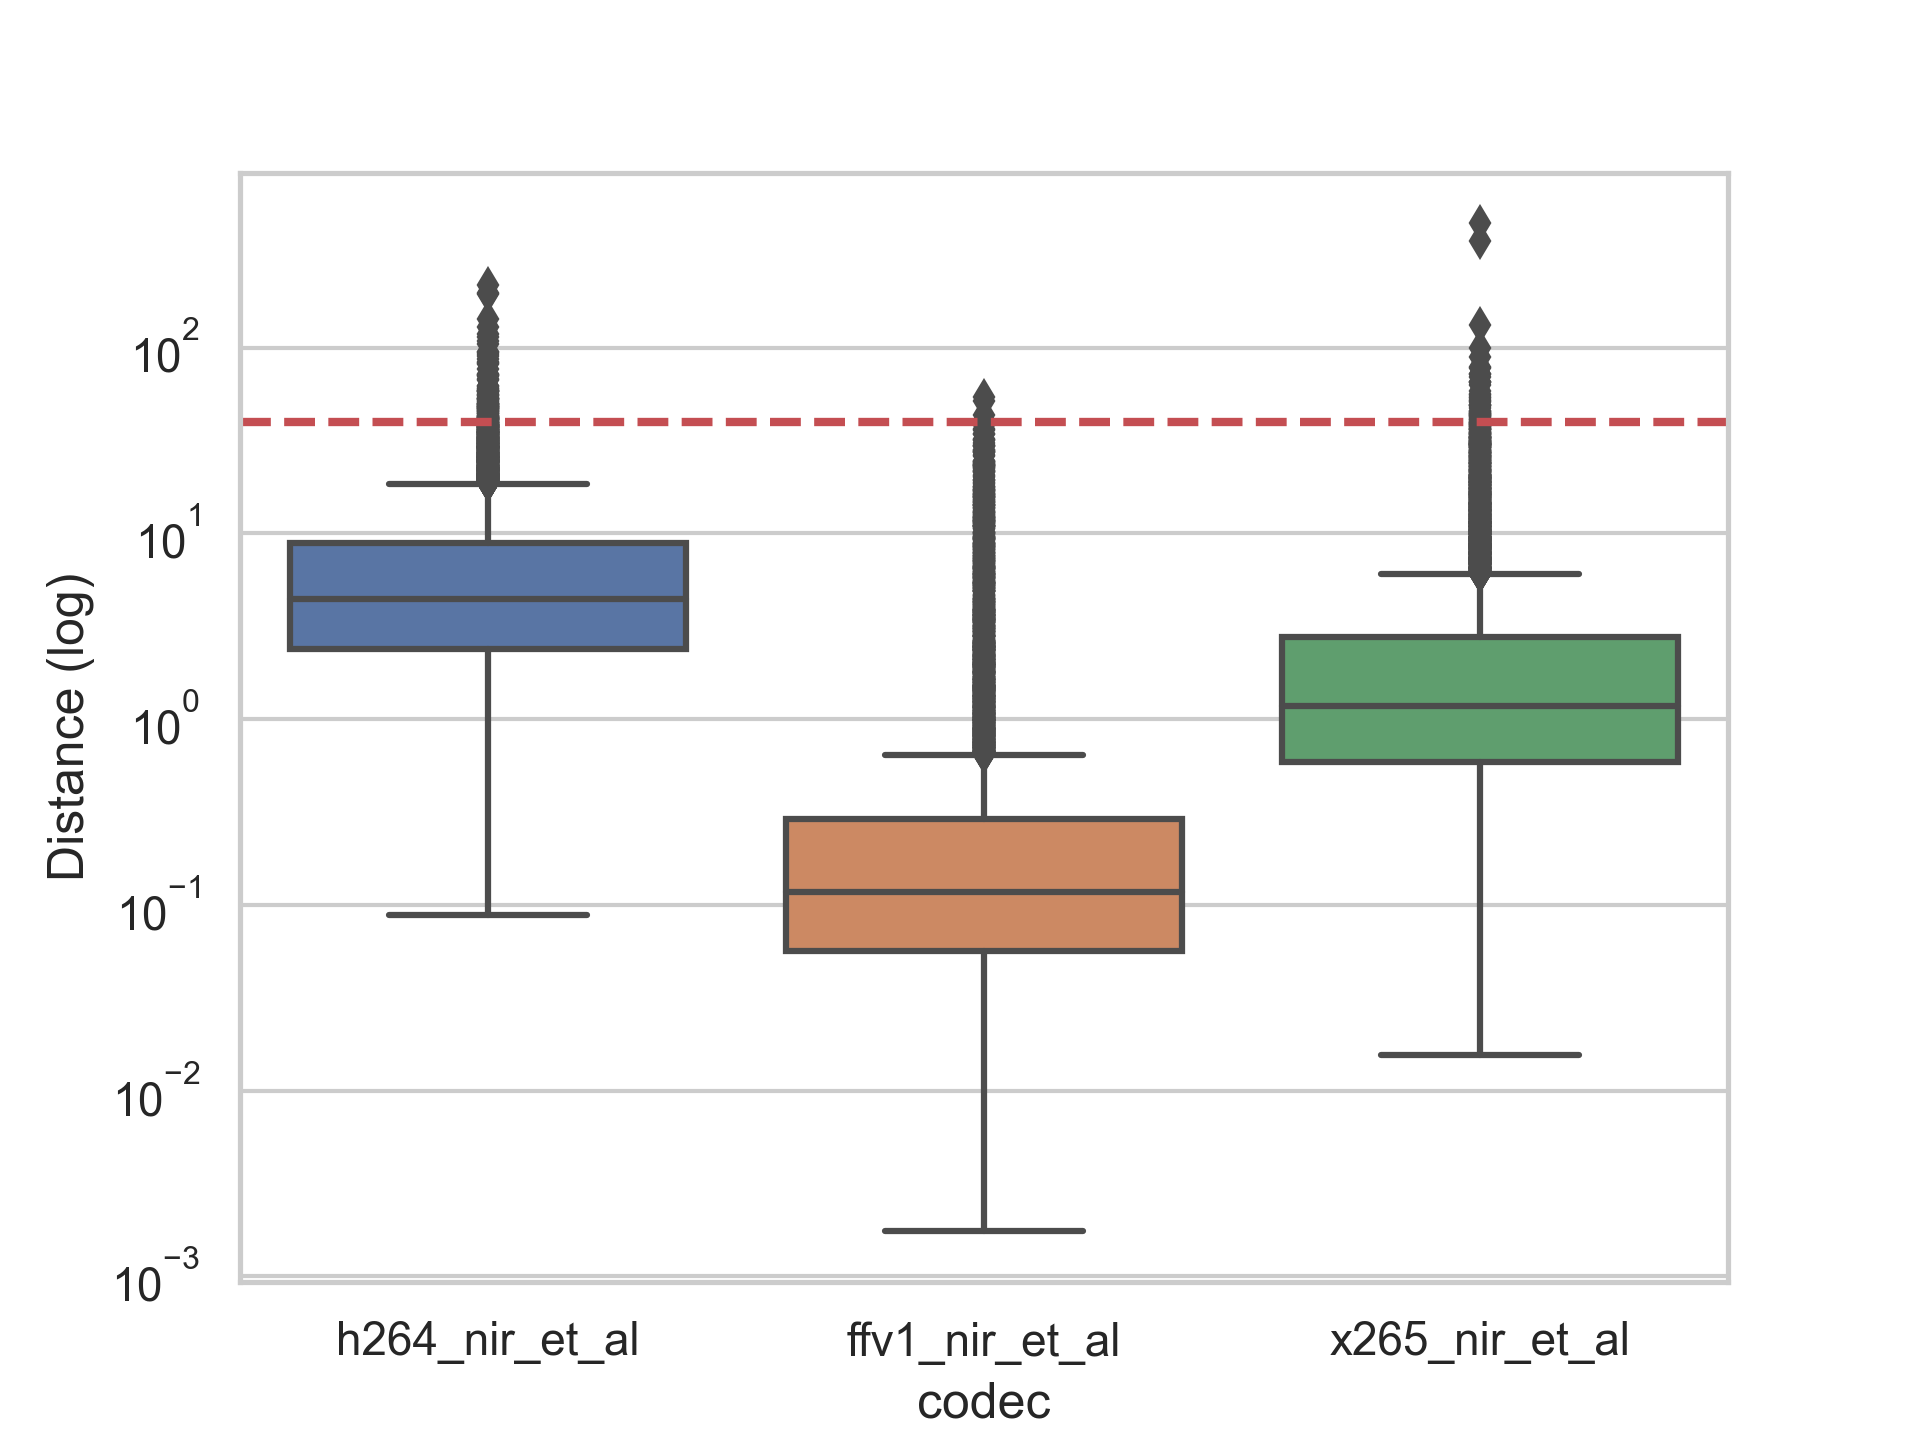
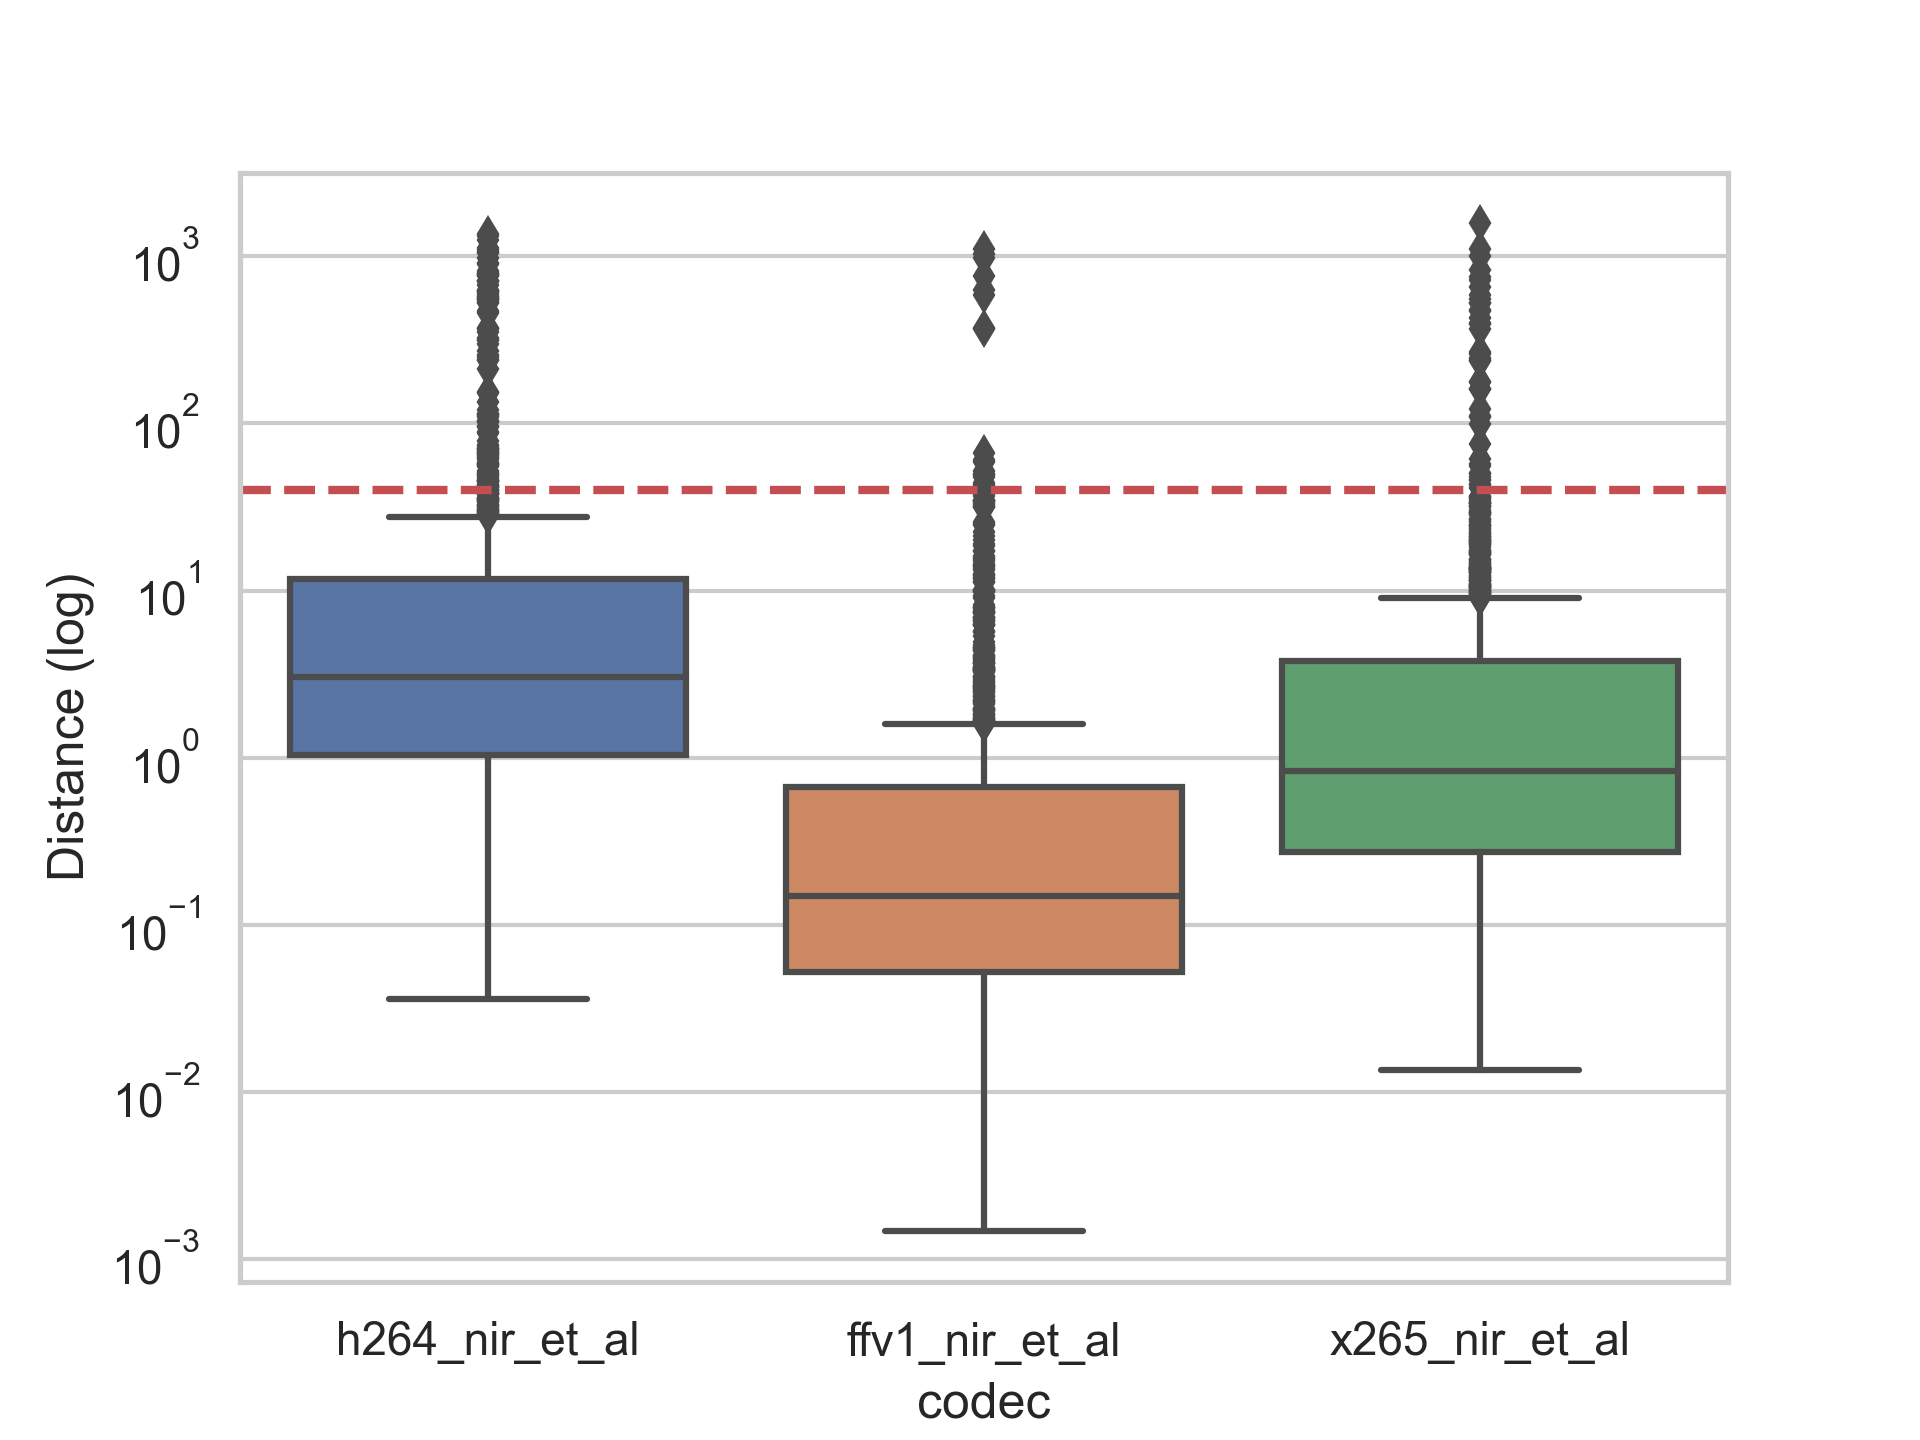
update on NN analysis

diff --git a/extra_code/nearest_neighbours_analysis_v2.py b/extra_code/nearest_neighbours_analysis_v2.py
@@ -8,9 +8,12 @@ from h5r_functions import h5r_to_df
 from concurrent.futures import ProcessPoolExecutor
 from scipy.spatial import distance
 from glob import glob
+import seaborn as sns
+import multiprocessing
+import plotly.express as px
 
 #%%
-import multiprocessing
+# Determine the number of available cores and use 60% of them for the NN analysis
 num_cores = multiprocessing.cpu_count()
 num_cores = int(round(num_cores * 0.6, 0))
 
@@ -45,71 +48,80 @@ def compute_nearest_neighbours_parallel(df, gt, n_neighbors=1, n_jobs=-1):
 # find all files in a directory .h5r with glob but do not include the raw files
 path = '/Users/alioutas/Dropbox (HMS)/data_compression/simulated_tubulin_data Laura Breimann/'
 files = glob(path + '**/*.h5r')
+# data name for naming the output files
+data_name = 'synthTub'
 # find the raw files and save them seperately
 raw_files = [file for file in files if 'raw' in file]
 files = [file for file in files if 'raw' not in file]
 
-# %%
-# Create a loop to Load each file with h5r_to_df if it doesnt contain the word raw
-# load each raw filr with h5r_to_df
-# then use the compute_nearest_neighbours_parallel function to find the nearest neighbours between raw and files
-# for every file save the results in a dataframe distance will be the calculated distances 
-# and the name of the folder pasted to the name of the file will be saved in the codec column
-# save the results in a dataframe
+#Check if there is an output folder, and if there isnt then create one
+if not os.path.exists(os.path.join(path+ '/output/')):
+    os.makedirs(os.path.join(path+ '/output/'))
+
 
 #%%
 # load raw file
 raw_df = h5r_to_df(filepath=raw_files[0])
+raw_df = raw_df[(raw_df["fitError_x0"] > 0) & (raw_df["fitError_x0"] < 30) & (raw_df["fitError_y0"] > 0) & (raw_df["fitError_y0"] < 30) & (raw_df["fitResults_A"] > 5) & (raw_df["fitResults_A"] < 100000)]
 
 col_select = ['fitResults_x0',	'fitResults_y0', 'fitResults_z0']
 raw = raw_df.reset_index()[col_select]
 n_neighbors = 1
-# distances, indices = compute_nearest_neighbours(df_query, gt, n_neighbors)
 
+print('Raw file contains', raw.shape[0], 'localizations')
+
+# make 2d plot of the localizations colored by the distance with plotly
+fig = px.scatter(raw_df, x='fitResults_x0', y='fitResults_y0', opacity=0.6)
+# save plot to file
+fig.write_image(os.path.join(path+ '/output/', data_name+ '_'+os.path.basename(raw_files[0])+'_localizations.png'), width=800, height=800, scale=2)
+fig.show()
 
 #%%
-
 # create an empty dataframe to save the results
 df_out = pd.DataFrame(columns=['distance', 'codec'])
-print(type(df_out))
 
-# data name to append to the codec column
-data_name = 'nir_et_al'
-
-#%%
+# loop over the files and compute the nearest neighbours
 for file in files:
-    print(file)
     # df_out_temp = pd.DataFrame(columns=['distance', 'codec'])
     locs = h5r_to_df(filepath=file)
+    print(os.path.basename(file), "has", locs.shape[0], "localizations")
     # apply universal filter of localizations as this seems to be an issue created during localization with PyME
     locs = locs[(locs["fitError_x0"] > 0) & (locs["fitError_x0"] < 30) & (locs["fitError_y0"] > 0) & (locs["fitError_y0"] < 30) & (locs["fitResults_A"] > 5) & (locs["fitResults_A"] < 100000)]
     df_query = locs.reset_index()[col_select]
     distances, indices = compute_nearest_neighbours_parallel(df_query, raw, n_neighbors=1, n_jobs=num_cores)
-    # append to df_out the distances results to the 'distance' column
-    # df_out_temp['distance'] = distances.flatten()
-    # append the codec name to the 'codec' column
-    # df_out_temp['codec'] = os.path.basename(os.path.dirname(file)) + '_' + data_name
-    # df_out = df_out.append(df_out_temp, ignore_index=True)
+    df_query['distances'] = distances.flatten()
     distances_flat = distances.flatten()
     codec_name = os.path.basename(os.path.dirname(file)) + '_' + data_name
     df_to_append = pd.DataFrame({'distance': distances_flat, 'codec': [codec_name]*len(distances_flat)})
     df_out = pd.concat([df_out, df_to_append], ignore_index=True)
 
+    # make 2d plot of the localizations colored by the distance with plotly
+    fig = px.scatter(df_query, x='fitResults_x0', y='fitResults_y0', color='distances', color_continuous_scale='viridis', opacity=0.6)
+    # save plot to file
+    fig.write_image(os.path.join(path+ '/output/', data_name+ '_'+ os.path.basename(os.path.dirname(file))+'_localizations.png'), width=800, height=800, scale=2)
+    fig.show()
+
 #%%
 df_out
 # %%
 # plot kdeplot as a histogram of the distances
-import seaborn as sns
 sns.set_theme(style="whitegrid")
 sns.kdeplot(data=df_out, hue="codec", bw_adjust=.1, x="distance", color ="codec" , fill=False, common_norm=True, alpha=.4, linewidth=2, log_scale=True)
 plt.axvline(x=40, color='r', linestyle='--', linewidth=2)
 # save plot
-plt.savefig(os.path.join(os.getcwd()+ '/output/', data_name+ '_kdeplot.png'), dpi=300)
+plt.savefig(os.path.join(os.getcwd()+ '/output/', data_name+ '_'+os.path.basename(os.path.dirname(files[0])) + '_kdeplot.png'), dpi=300)
+plt.savefig(os.path.join(path+ '/output/', data_name+ '_'+os.path.basename(os.path.dirname(files[0])) + '_kdeplot.png'), dpi=300)
+
+#%%
+fig = px.scatter(df_query, x='fitResults_x0', y='fitResults_y0', color=distances.flatten(), color_continuous_scale='viridis')
+fig.update_layout(
+    legend_title="Legend Title"
+)
+
+fig.show()
+
 # %%
 # plot the boxplot of df
-import seaborn as sns
-import matplotlib.pyplot as plt
-
 sns.set_theme(style="whitegrid")
 ax = sns.boxplot(x="codec", y="distance", data=df_out)
 ax.set(yscale="log")
@@ -117,8 +129,9 @@ ax.set_ylabel('Distance (log)')
 plt.axhline(y=40, color='r', linestyle='--', linewidth=2)
 
 #save plot
-plt.savefig(os.path.join(os.getcwd()+ '/output/', data_name+ '_boxplot.png'), dpi=300)
+plt.savefig(os.path.join(os.getcwd()+ '/output/', data_name+'_' + '_boxplot.png'), dpi=300)
+plt.savefig(os.path.join(path+ '/output/', data_name+'_'+ '_boxplot.png'), dpi=300)
+
 plt.show()
-# %%
 
 # %%
